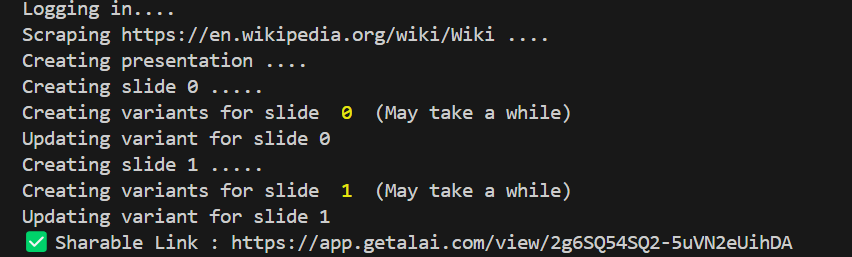
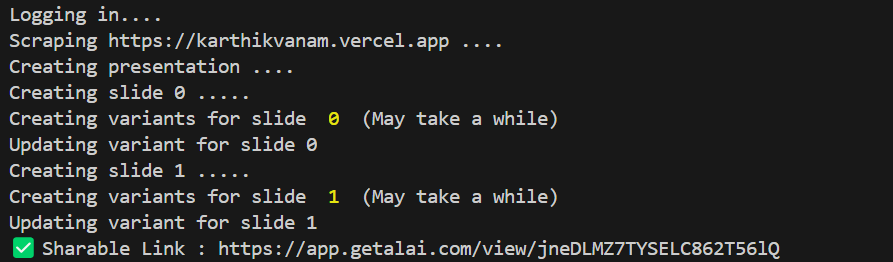
update o/p and readme

Changed region(s): [[0.0, 0.0, 0.946, 0.9961], [0.6103, 0.1245, 0.6408, 0.1556]]

diff --git a/README.md b/README.md
@@ -43,6 +43,8 @@ Below is an example output after running the script:
 
 ![Output Screenshot](output.png)
 
+🔗 [View Sample Output](https://app.getalai.com/view/jneDLMZ7TYSELC862T56lQ)
+
 
 **Note:** Update the URL in `index.js` to a valid URL. The default URL is:
 
